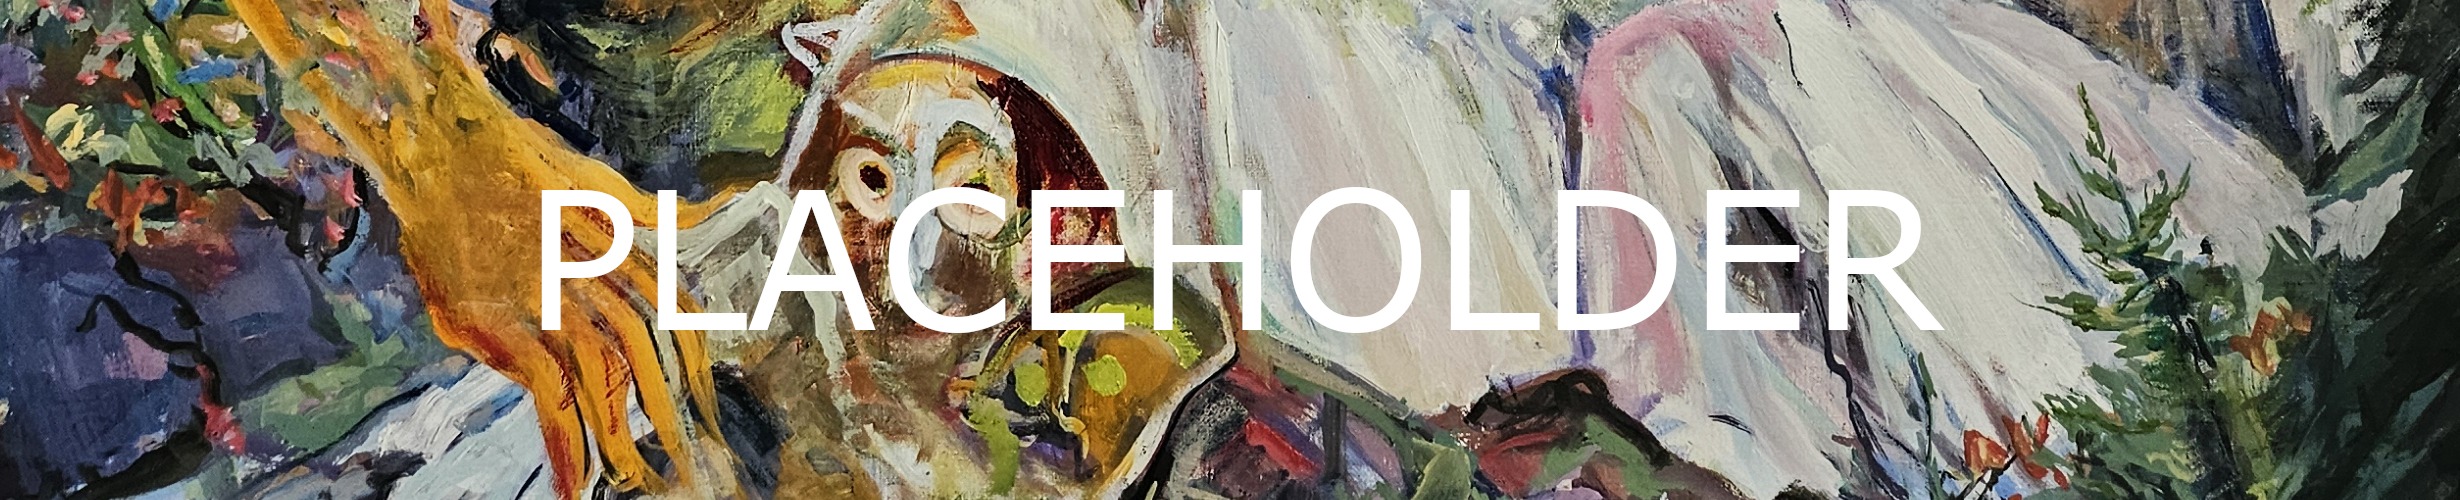
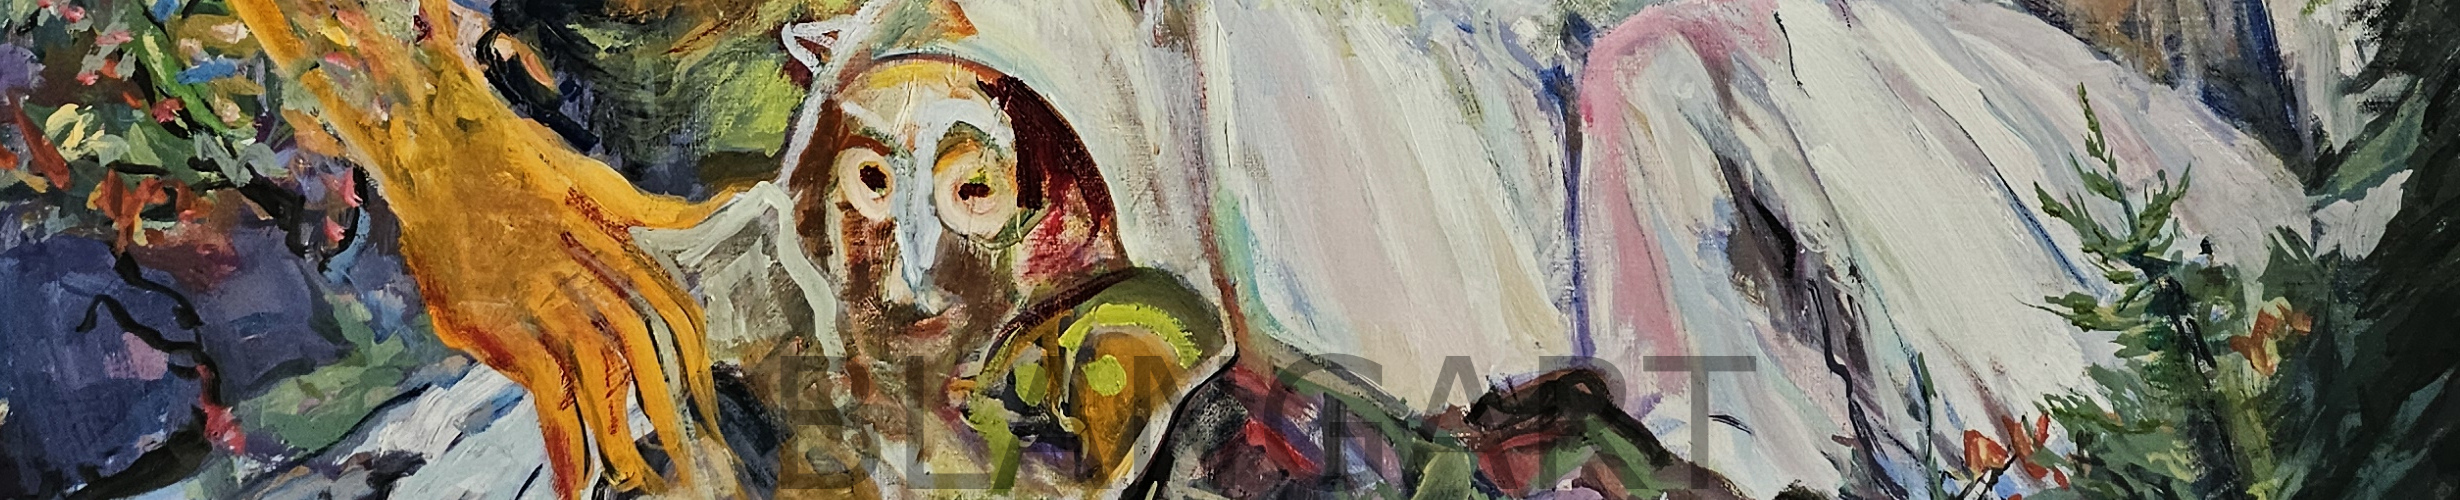
Add files via upload

Changed region(s): [[0.2163, 0.36, 0.8033, 0.66], [0.3089, 0.69, 0.7106, 0.99]]

diff --git a/scripts/main.js b/scripts/main.js
@@ -33,19 +33,20 @@ const artTitles = [
 var aJsonData = {
     "artpieces": [
         {
-            "name": "Name of Piece 1",
-            "medium": "oil",
+            "name": "Ocular Mind",
+            "medium": "Oil on canvas",
             "dims": [
                 {
-                    "width": 6,
-                    "height": 4
+                    "depth": 0.75,
+                    "width": 36,
+                    "height": 48
                 }
             ],
             "prodvers": [
                 {
                     "original": [
                         {
-                            "price": 1000.00,
+                            "price": 200.00,
                             "available": 1
                         }
                     ],
@@ -61,20 +62,21 @@ var aJsonData = {
         },
 
         {
-            "name": "A Long Name of the Second",
-            "medium": "oil",
+            "name": "Neptunian Dance",
+            "medium": "Oil on canvas",
             "dims": [
                 {
-                    "width": 7,
-                    "height": 5
+                    "depth": 0.75,
+                    "width": 24,
+                    "height": 28
                 }
             ],
             "prodvers": [
                 {
                     "original": [
                         {
-                            "price": 2000,
-                            "available": 2
+                            "price": 150.00,
+                            "available": 1
                         }
                     ],
                     "prints": [
@@ -89,20 +91,21 @@ var aJsonData = {
         },
 
         {
-            "name": "A Longer Name of the Third Art Piece",
-            "medium": "oil",
+            "name": "Persephone",
+            "medium": "Oil on canvas",
             "dims": [
                 {
-                    "width": 8,
-                    "height": 6
+                    "depth": 0.625,
+                    "width": 18,
+                    "height": 24
                 }
             ],
             "prodvers": [
                 {
                     "original": [
                         {
-                            "price": 3000,
-                            "available": 3
+                            "price": 200.00,
+                            "available": 1
                         }
                     ],
                     "prints": [
@@ -117,20 +120,21 @@ var aJsonData = {
         },
 
         {
-            "name": "A Very Long Exceptional Name of the fourth Piece",
-            "medium": "oil",
+            "name": "Nature's Beauty",
+            "medium": "Oil on canvas",
             "dims": [
                 {
-                    "width": 10,
-                    "height": 8
+                    "depth": 0.625,
+                    "width": 24,
+                    "height": 32
                 }
             ],
             "prodvers": [
                 {
                     "original": [
                         {
-                            "price": 4000,
-                            "available": 4
+                            "price": 300.00,
+                            "available": 1
                         }
                     ],
                     "prints": [
@@ -145,20 +149,21 @@ var aJsonData = {
         },
 
         {
-            "name": "Short Name",
-            "medium": "oil",
+            "name": "Gotlieb",
+            "medium": "Oil on canvas",
             "dims": [
                 {
-                    "width": 11,
-                    "height": 9
+                    "depth": 0.75,
+                    "width": 20,
+                    "height": 24
                 }
             ],
             "prodvers": [
                 {
                     "original": [
                         {
-                            "price": 5000,
-                            "available": 5
+                            "price": 175.00,
+                            "available": 1
                         }
                     ],
                     "prints": [
@@ -173,10 +178,40 @@ var aJsonData = {
         },
 
         {
+            "name": "Picklemen",
+            "medium": "Oil on canvas",
+            "dims": [
+                {
+                    "depth": 1.5,
+                    "width": 20,
+                    "height": 30
+                }
+            ],
+            "prodvers": [
+                {
+                    "original": [
+                        {
+                            "price": 250.00,
+                            "available": 1
+                        }
+                    ],
+                    "prints": [
+                        {
+                            "0": 10,
+                            "1": 20,
+                            "2": 50
+                        }
+                    ]
+                }
+            ]
+        },
+
+        {
             "name": "p1",
             "medium": "oil",
             "dims": [
                 {
+                    "depth": 0.75,
                     "width": 6,
                     "height": 4
                 }
@@ -205,6 +240,7 @@ var aJsonData = {
             "medium": "oil",
             "dims": [
                 {
+                    "depth": 0.75,
                     "width": 6,
                     "height": 4
                 }
@@ -233,6 +269,7 @@ var aJsonData = {
             "medium": "oil",
             "dims": [
                 {
+                    "depth": 0.75,
                     "width": 6,
                     "height": 4
                 }
@@ -261,6 +298,7 @@ var aJsonData = {
             "medium": "oil",
             "dims": [
                 {
+                    "depth": 0.75,
                     "width": 6,
                     "height": 4
                 }
@@ -289,34 +327,7 @@ var aJsonData = {
             "medium": "oil",
             "dims": [
                 {
-                    "width": 6,
-                    "height": 4
-                }
-            ],
-            "prodvers": [
-                {
-                    "original": [
-                        {
-                            "price": 1000,
-                            "available": 1
-                        }
-                    ],
-                    "prints": [
-                        {
-                            "0": 10,
-                            "1": 20,
-                            "2": 50
-                        }
-                    ]
-                }
-            ]
-        },
-
-        {
-            "name": "p1",
-            "medium": "oil",
-            "dims": [
-                {
+                    "depth": 0.75,
                     "width": 6,
                     "height": 4
                 }

diff --git a/html/main.html b/html/main.html
@@ -67,28 +67,23 @@
         <h1 class="browsemess">Scroll down to browse the catalog. Click on a piece to examine.</h1>
         <div class="catalog">
             <!--<img id="a1" onclick="onArtClick(id)" onmouseover="onArtHover(id)" src="..\css\artimages\p1.jpg" alt="sleep">
-            <img id="a2" onclick="onArtClick(id)" onmouseover="onArtHover(id)" src="..\css\artimages\p2.jpg" alt="sleep">
-            <img id="a3" onclick="onArtClick(id)" onmouseover="onArtHover(id)" src="..\css\artimages\p3.jpg" alt="sleep">
-            <img id="a4" onclick="onArtClick(id)" onmouseover="onArtHover(id)" src="..\css\artimages\p4.jpg" alt="sleep">
-            <img id="a5" onclick="onArtClick(id)" onmouseover="onArtHover(id)" src="..\css\artimages\p5.jpg" alt="sleep">
-            <img id="a6" onclick="onArtClick(id)" onmouseover="onArtHover(id)" src="..\css\artimages\p6.jpg" alt="sleep">
-            <img id="a7" onclick="onArtClick(id)" onmouseover="onArtHover(id)" src="..\css\artimages\p7.jpg" alt="sleep">
-            <img id="a8" onclick="onArtClick(id)" onmouseover="onArtHover(id)" src="..\css\artimages\p8.jpg" alt="sleep">
-            <img id="a9" onclick="onArtClick(id)" onmouseover="onArtHover(id)" src="..\css\artimages\p9.jpg" alt="sleep">
-            <img id="a10" onclick="onArtClick(id)" onmouseover="onArtHover(id)" src="..\css\artimages\p10.jpg" alt="sleep">
-            <img id="a11" onclick="onArtClick(id)" onmouseover="onArtHover(id)" src="..\css\artimages\p0.jpg" alt="sleep">
-            -->
-            <img id="a1" onclick="onArtClick(id)" onmouseover="onArtHover(id)" src="..\css\artimages\PlaceHolder1.jpg" alt="sleep">
-            <img id="a2" onclick="onArtClick(id)" onmouseover="onArtHover(id)" src="..\css\artimages\PlaceHolder1.jpg" alt="sleep">
-            <img id="a3" onclick="onArtClick(id)" onmouseover="onArtHover(id)" src="..\css\artimages\PlaceHolder1.jpg" alt="sleep">
-            <img id="a4" onclick="onArtClick(id)" onmouseover="onArtHover(id)" src="..\css\artimages\PlaceHolder1.jpg" alt="sleep">
-            <img id="a5" onclick="onArtClick(id)" onmouseover="onArtHover(id)" src="..\css\artimages\PlaceHolder1.jpg" alt="sleep">
-            <img id="a6" onclick="onArtClick(id)" onmouseover="onArtHover(id)" src="..\css\artimages\PlaceHolder1.jpg" alt="sleep">
-            <img id="a7" onclick="onArtClick(id)" onmouseover="onArtHover(id)" src="..\css\artimages\PlaceHolder1.jpg" alt="sleep">
-            <img id="a8" onclick="onArtClick(id)" onmouseover="onArtHover(id)" src="..\css\artimages\PlaceHolder1.jpg" alt="sleep">
-            <img id="a9" onclick="onArtClick(id)" onmouseover="onArtHover(id)" src="..\css\artimages\PlaceHolder1.jpg" alt="sleep">
-            <img id="a10" onclick="onArtClick(id)" onmouseover="onArtHover(id)" src="..\css\artimages\PlaceHolder1.jpg" alt="sleep">
-            <img id="a11" onclick="onArtClick(id)" onmouseover="onArtHover(id)" src="..\css\artimages\PlaceHolder1.jpg" alt="sleep">
+    <img id="a2" onclick="onArtClick(id)" onmouseover="onArtHover(id)" src="..\css\artimages\p2.jpg" alt="sleep">
+    <img id="a3" onclick="onArtClick(id)" onmouseover="onArtHover(id)" src="..\css\artimages\p3.jpg" alt="sleep">
+    <img id="a4" onclick="onArtClick(id)" onmouseover="onArtHover(id)" src="..\css\artimages\p4.jpg" alt="sleep">
+    <img id="a5" onclick="onArtClick(id)" onmouseover="onArtHover(id)" src="..\css\artimages\p5.jpg" alt="sleep">
+    <img id="a6" onclick="onArtClick(id)" onmouseover="onArtHover(id)" src="..\css\artimages\p6.jpg" alt="sleep">
+    <img id="a7" onclick="onArtClick(id)" onmouseover="onArtHover(id)" src="..\css\artimages\p7.jpg" alt="sleep">
+    <img id="a8" onclick="onArtClick(id)" onmouseover="onArtHover(id)" src="..\css\artimages\p8.jpg" alt="sleep">
+    <img id="a9" onclick="onArtClick(id)" onmouseover="onArtHover(id)" src="..\css\artimages\p9.jpg" alt="sleep">
+    <img id="a10" onclick="onArtClick(id)" onmouseover="onArtHover(id)" src="..\css\artimages\p10.jpg" alt="sleep">
+    <img id="a11" onclick="onArtClick(id)" onmouseover="onArtHover(id)" src="..\css\artimages\p0.jpg" alt="sleep">
+    -->
+            <img id="a1" onclick="onArtClick(id)" onmouseover="onArtHover(id)" src="..\css\artimages\p0.jpg" alt="sleep">
+            <img id="a2" onclick="onArtClick(id)" onmouseover="onArtHover(id)" src="..\css\artimages\p1.jpg" alt="sleep">
+            <img id="a3" onclick="onArtClick(id)" onmouseover="onArtHover(id)" src="..\css\artimages\p2.jpg" alt="sleep">
+            <img id="a4" onclick="onArtClick(id)" onmouseover="onArtHover(id)" src="..\css\artimages\p3.jpg" alt="sleep">
+            <img id="a5" onclick="onArtClick(id)" onmouseover="onArtHover(id)" src="..\css\artimages\p4.jpg" alt="sleep">
+            <img id="a6" onclick="onArtClick(id)" onmouseover="onArtHover(id)" src="..\css\artimages\p5.jpg" alt="sleep">
         </div>
     </main>
     <hr class="bottom-line" />

diff --git a/scripts/info.js b/scripts/info.js
@@ -54,9 +54,10 @@ function setPieceInfo(data) {
     var med = document.getElementById("med");
     var price = document.getElementById("price");
     title.innerHTML = "'" + jData.name + "'";
-    dims.innerHTML = "Dimensions(inches) &lt; " + jData.dims[0].width + " &times; " + jData.dims[0].height + " &gt;";
+    // dims.innerHTML = "Dimensions(inches) &lt; " + jData.dims[0].width + " &times; " + jData.dims[0].height + " &gt;";
+    dims.innerHTML = "Dimensions(inches): " + jData.dims[0].width + " &times; " + jData.dims[0].height + " &times; " + jData.dims[0].depth;
     med.innerHTML = "Type: " + jData.medium;
-    price.innerHTML = "$" + prices[0] + ".00";
+    price.innerHTML = "$" + jData.prodvers[0].original[0].price + ".00";//"$" + prices[0] + ".00";
 
 
 }

diff --git a/css/info.css b/css/info.css
@@ -92,7 +92,7 @@ hr {
 }
 
 .infocontainer {
-    max-width: 95%;
+    max-width: 95vw;
     height: auto;
     margin: auto;
     place-content: center;
@@ -110,7 +110,7 @@ hr {
 
 .inquiry {
     border-radius: 30px;
-    max-width: 95%;
+    max-width: 95vw;
     height: auto;
     text-align: center;
 }
